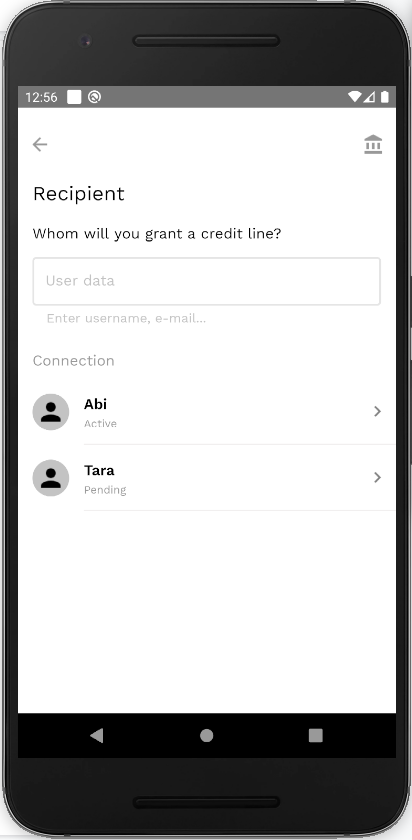
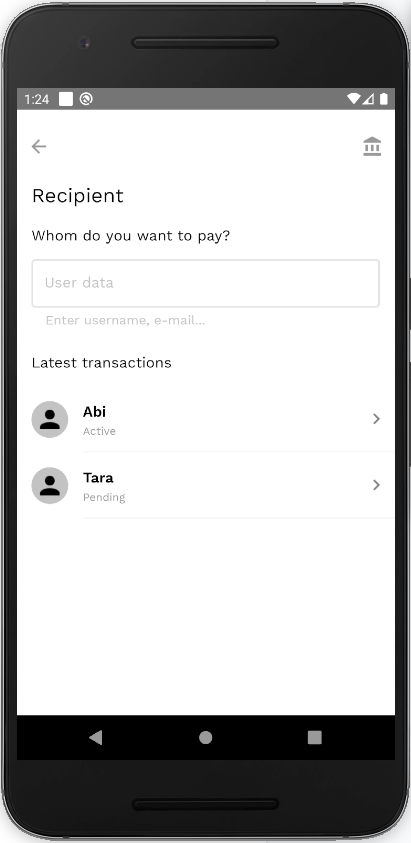
Make payment web

diff --git a/docusaurus/docs/web/make-payment.md b/docusaurus/docs/web/make-payment.md
@@ -3,4 +3,34 @@ id: make-payment
 title: Make Payment
 ---
 
-Make payment
+**NOTE: you can make a payment to another user only:**
+
+-  **if that user granted a credit line to you**
+- **OR if you have a common connection who granted a conversion permit to you**
+
+To create a new payment:
+
+- Click on the <img src="../assets/dollar-icon.png" alt="dollar icon" width="25" style="margin-bottom: -7px"/> button at the bottom of the [dashboard page](dashboard.md).
+
+<img src="../assets/web/make-payment1.png" alt="make payment image" />
+
+- Choose an existing connection or type in the username of the person you want to pay and click *Next* button.
+
+<img src="../assets/web/make-payment2.JPG" alt="make payment image" />
+
+- On the next screen:
+  - choose the currency in which you want to pay. Usually, it’s the currency in which you were granted a credit line.
+  - Enter the amount.
+  - Enter the [time target](vocabulary.md#time-target). Note, that it could be less or equal to the time target that is set up for the credit line.
+
+  Click *Next* button.
+
+  <img src="../assets/web/make-payment3.JPG" alt="make payment image" />
+
+- Select one of the available payment options.
+
+<img src="../assets/web/make-payment4.JPG" alt="make payment image" />
+
+- Check the details and confirm payment by pressing on the *Confirm* button.
+
+<img src="../assets/web/make-payment5.JPG" alt="make payment image" />

diff --git a/docusaurus/docs/web/partial-iou-settlement.md b/docusaurus/docs/web/partial-iou-settlement.md
@@ -1,0 +1,6 @@
+---
+id: partial-iou-settlement
+title: Partial IOU settlement
+---
+
+IOU

diff --git a/docusaurus/docs/web/full-iou-settlement.md b/docusaurus/docs/web/full-iou-settlement.md
@@ -1,0 +1,6 @@
+---
+id: full-iou-settlement
+title: Full IOU settlement
+---
+
+IOU

diff --git a/docusaurus/docs/web/iou-settlement.md b/docusaurus/docs/web/iou-settlement.md
@@ -1,0 +1,6 @@
+---
+id: iou-settlement
+title: IOU settlement
+---
+
+IOU
